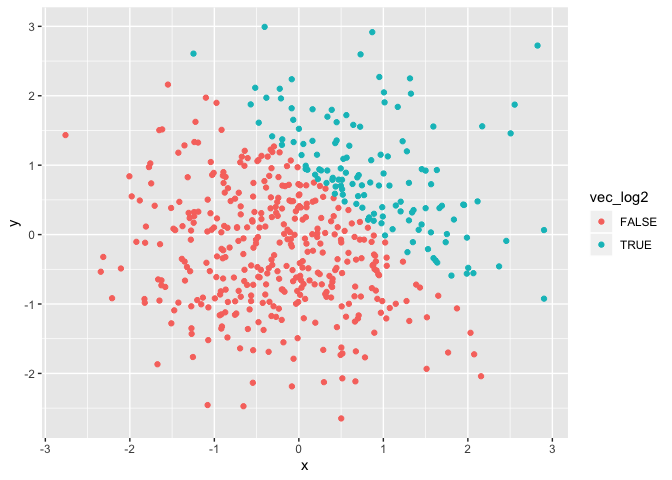
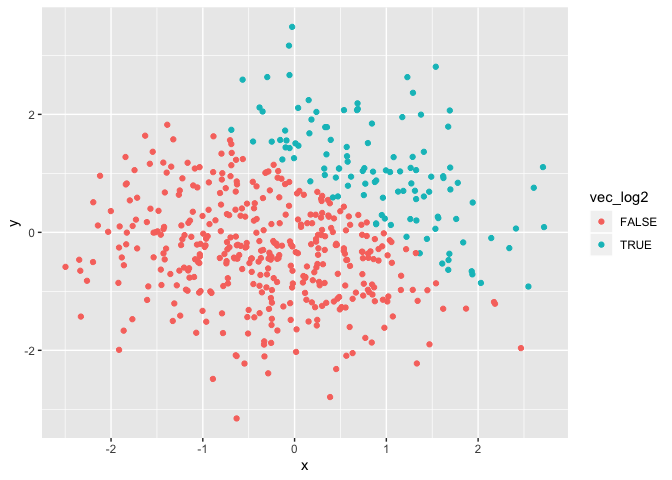
Final changes in the project

diff --git a/p8105_hw1_Ec3342.md b/p8105_hw1_Ec3342.md
@@ -40,13 +40,13 @@ first_df = tibble(
 mean(pull(first_df,norm_samp)) 
 ```
 
-    ## [1] 0.2253109
+    ## [1] 0.01761595
 
 ``` r
 mean(pull(first_df,vec_log))
 ```
 
-    ## [1] 0.625
+    ## [1] 0.5
 
 ``` r
 mean(pull(first_df,vec_char))
@@ -114,8 +114,8 @@ then multiplied that with the random
 as.numeric(pull(first_df,vec_log))*(pull(first_df,norm_samp))
 ```
 
-    ## [1] 0.4440825 0.0000000 0.9414040 0.0000000 0.0000000 0.7111122 0.7724954
-    ## [8] 0.7594178
+    ## [1] 0.0000000 0.0000000 1.1361673 0.6870477 0.0000000 0.2098932 0.0000000
+    ## [8] 0.5531645
 
 ``` r
 as.factor(pull(first_df,vec_log))*(pull(first_df,norm_samp))
@@ -130,8 +130,8 @@ as.factor(pull(first_df,vec_log))*(pull(first_df,norm_samp))
 as.numeric(as.factor(pull(first_df,vec_log)))*(pull(first_df,norm_samp))
 ```
 
-    ## [1]  0.8881649 -0.9541097  1.8828081 -0.6472838 -0.2246308  1.4222243
-    ## [7]  1.5449908  1.5188356
+    ## [1] -0.7589327 -0.1139919  2.2723345  1.3740955 -1.4674582  0.4197865
+    ## [7] -0.1049624  1.1063290
 
 # Question 2
 
@@ -159,10 +159,10 @@ vec_fac = as.factor(vec_log2),
 ## Description of the dataframe
 
   - The size of the dataframe is 500 and the number of columns are 5
-  - The mean of x is 0.0169007
-  - The median of x is -0.0065045
-  - The standard deviation of x is 0.981126
-  - The proportion of cases for which x + y \> 1 is 0.26
+  - The mean of x is -0.0538526
+  - The median of x is -0.0592696
+  - The standard deviation of x is 1.0184052
+  - The proportion of cases for which x + y \> 1 is 0.226
 
 ## Scatterplot
 
@@ -190,12 +190,14 @@ ggplot(second_df, aes(x = x, y = y, color = vec_fac)) + geom_point()
 ![](p8105_hw1_Ec3342_files/figure-gfm/scatterplot-3.png)<!-- -->
 
 \#The first scatterplot that color points using the logical variable has
-two colors: Red represents False and Turquiose represents True. The
-second scatterplot that color points using the numeric variable has two
-colors: Light blue represents larger numbers and dark blue represents
-smaller numbers. The third scatterplot that color points using the
-factor variable has two colors: Red represents False and Turquiose
-represents True.
+two colors: Red represents False and Turquiose represents True. True is
+when x + y \> 1 and false when x + y is not \> 1. The second scatterplot
+that color points using the numeric variable has two colors: Light blue
+represents larger numbers and dark blue represents smaller numbers.1
+represents that x + y \> 1 and 0 represents that x + y is not \> 1. The
+third scatterplot that color points using the factor variable has two
+colors: Red represents False and Turquiose represents True. True is when
+x + y \> 1 and false when x + y is not \> 1.
 
 \#Exporting the first scatterplot to my project
 directory.
